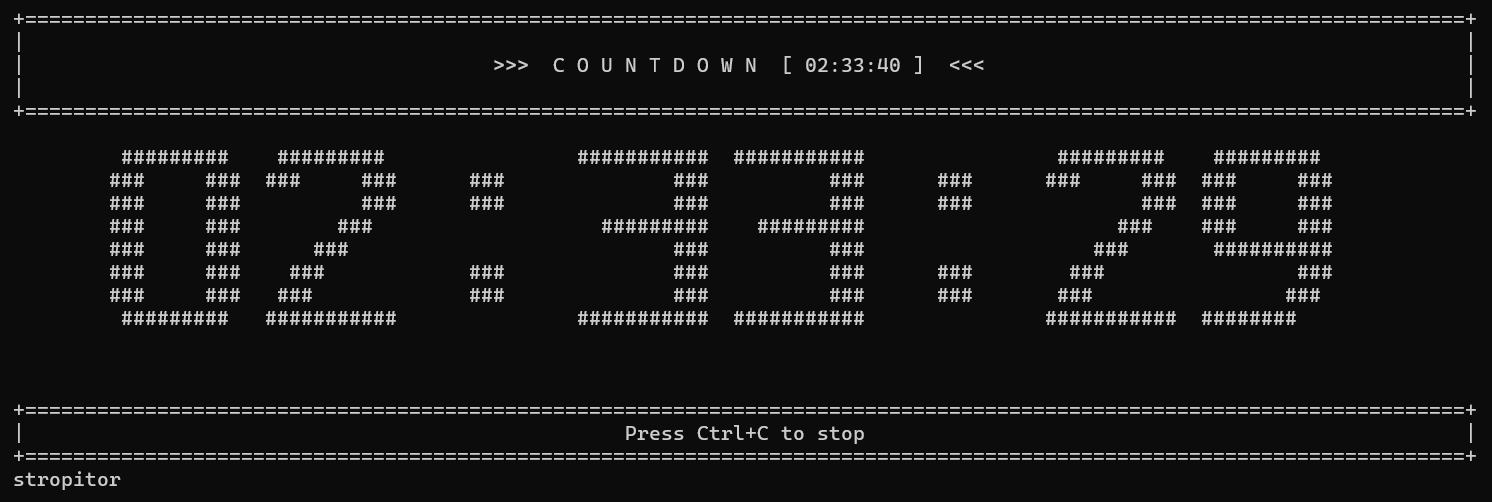
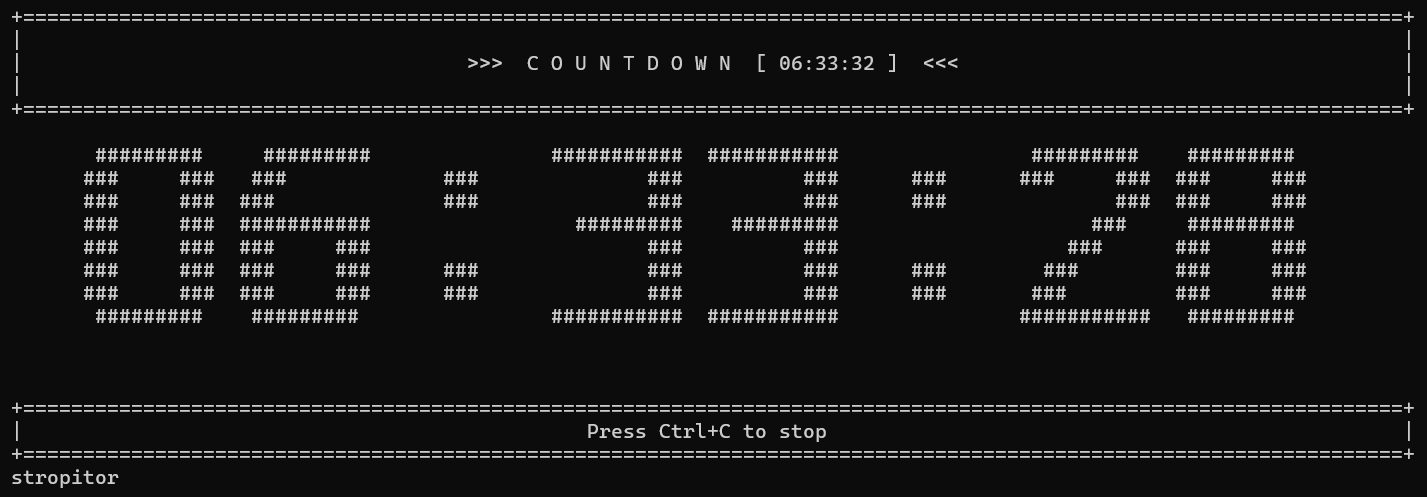
bugfixes

diff --git a/wincountdown.py b/wincountdown.py
@@ -271,16 +271,18 @@ def update_time_display(hours, minutes, seconds, show_hours, show_minutes):
     # Calculate the actual width of the time display
     time_width = len(lines[0])
     
-    # Center within the 120-character box (plus 2 spaces margin on left for the border)
-    x_offset = 2 + (115 - time_width) // 2
+    # Center within the 115-character box (plus 2 spaces + | on left = 3 chars)
+    x_offset = 3 + (115 - time_width) // 2
     
     # Draw all lines in one pass to avoid distortion
     for i, line in enumerate(lines):
         set_cursor_position(0, 8 + i)
-        # Clear entire line and write the centered content in one go
-        # Total width is 119 (2 spaces + | + 115 + |)
-        centered_line = " " * x_offset + line + " " * (124 - x_offset - len(line))
-        print(centered_line[:119], end='', flush=True)
+        # Total terminal width needs padding to clear the line
+        # Create spacing + content + spacing (no borders on these lines)
+        left_padding = " " * (x_offset)
+        right_padding = " " * (120 - x_offset - time_width)
+        full_line = left_padding + line.rstrip() + right_padding
+        print(full_line[:120], end='', flush=True)
 
 def countdown(total_seconds, beep_freq=800, beep_count=3, beep_duration=1000, beep_gap=300, silent=False, loop=False, metric=False):
     """Run the countdown timer"""
@@ -339,16 +341,16 @@ def countdown(total_seconds, beep_freq=800, beep_count=3, beep_duration=1000, be
             # Time's up!
             clear_screen()
             print("\n")
-            print("  +" + "=" * 120 + "+")
-            print("  |" + " " * 120 + "|")
+            print("  +" + "=" * 115 + "+")
+            print("  |" + " " * 115 + "|")
             if loop:
                 title = ">>>  R E S T A R T I N G . . .  <<<"
             else:
                 title = ">>>  T I M E ' S   U P !  <<<"
-            padding = (120 - len(title)) // 2
-            print("  |" + " " * padding + title + " " * (120 - padding - len(title)) + "|")
-            print("  |" + " " * 120 + "|")
-            print("  +" + "=" * 120 + "+")
+            padding = (115 - len(title)) // 2
+            print("  |" + " " * padding + title + " " * (115 - padding - len(title)) + "|")
+            print("  |" + " " * 115 + "|")
+            print("  +" + "=" * 115 + "+")
             print()
             print()
             
@@ -362,16 +364,16 @@ def countdown(total_seconds, beep_freq=800, beep_count=3, beep_duration=1000, be
             
             # Center the final time display
             time_width = len(lines[0])
-            x_offset = 2 + (120 - time_width) // 2
+            x_offset = 2 + (115 - time_width) // 2
                 
             for line in lines:
                 print(" " * x_offset + line)
             
             print()
             print()
-            print("  +" + "=" * 120 + "+")
-            print("  |" + " " * 120 + "|")
-            print("  +" + "=" * 120 + "+")
+            print("  +" + "=" * 115 + "+")
+            print("  |" + " " * 115 + "|")
+            print("  +" + "=" * 115 + "+")
             print("  stropitor")
             
             # Play a beep sound alert (unless silent)
